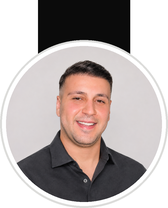
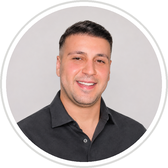
Signature: drop the black tab above the photo

diff --git a/esignature/photo.html b/esignature/photo.html
@@ -32,8 +32,8 @@ h1 { margin: 0 0 6px; font: 400 30px Gambarino, Georgia, serif; }
 <!-- Email-safe: tables, inline styles, absolute PNG URLs. No SVG, no web fonts, no negative margins. -->
 <table role="presentation" cellpadding="0" cellspacing="0" border="0" width="460" bgcolor="#ffffff" style="border-collapse:collapse;width:460px;background-color:#ffffff;font-family:Arial,Helvetica,sans-serif;color:#0b0b0b;">
   <tr>
-    <td width="84" valign="top" align="center" style="width:84px;padding:0 0 10px;">
-      <img src="https://www.levxascensores.es/esignature/assets/levier-photo.png" width="84" height="104" alt="Levier Oraha" style="display:block;width:84px;height:104px;border:0;">
+    <td width="84" valign="top" align="center" style="width:84px;padding:14px 0 10px;">
+      <img src="https://www.levxascensores.es/esignature/assets/levier-photo.png" width="84" height="84" alt="Levier Oraha" style="display:block;width:84px;height:84px;border:0;">
       <div style="margin-top:7px;font:700 10px/1 Arial,Helvetica,sans-serif;letter-spacing:2px;color:#0b0b0b;">LEVX</div>
       <div style="margin-top:3px;font:400 6px/1 Arial,Helvetica,sans-serif;letter-spacing:2px;color:#5d5d5d;">ASCENSORES</div>
     </td>
@@ -78,8 +78,8 @@ h1 { margin: 0 0 6px; font: 400 30px Gambarino, Georgia, serif; }
 <!-- Email-safe: tables, inline styles, absolute PNG URLs. No SVG, no web fonts, no negative margins. -->
 <table role="presentation" cellpadding="0" cellspacing="0" border="0" width="460" bgcolor="#ffffff" style="border-collapse:collapse;width:460px;background-color:#ffffff;font-family:Arial,Helvetica,sans-serif;color:#0b0b0b;">
   <tr>
-    <td width="84" valign="top" align="center" style="width:84px;padding:0 0 10px;">
-      <img src="https://www.levxascensores.es/esignature/assets/levier-photo-color.png" width="84" height="104" alt="Levier Oraha" style="display:block;width:84px;height:104px;border:0;">
+    <td width="84" valign="top" align="center" style="width:84px;padding:14px 0 10px;">
+      <img src="https://www.levxascensores.es/esignature/assets/levier-photo-color.png" width="84" height="84" alt="Levier Oraha" style="display:block;width:84px;height:84px;border:0;">
       <div style="margin-top:7px;font:700 10px/1 Arial,Helvetica,sans-serif;letter-spacing:2px;color:#0b0b0b;">LEVX</div>
       <div style="margin-top:3px;font:400 6px/1 Arial,Helvetica,sans-serif;letter-spacing:2px;color:#5d5d5d;">ASCENSORES</div>
     </td>
@@ -117,7 +117,7 @@ h1 { margin: 0 0 6px; font: 400 30px Gambarino, Georgia, serif; }
   <tr><td colspan="7" height="6" bgcolor="#0b0b0b" style="height:6px;background-color:#0b0b0b;border-top:2px solid #d1500f;font-size:0;line-height:0;">&nbsp;</td></tr>
 </table>
   </div></div>
-  <p class="note">The portrait and icons load from levxascensores.es, so the signature works once this page is live. The black tab is part of the photo, so every email app keeps it attached.</p>
+  <p class="note">The portrait and icons load from levxascensores.es, so the signature works once this page is live.</p>
 </main>
 <script>
 document.querySelectorAll('[data-sig]').forEach(b => b.addEventListener('click', async () => {

diff --git a/esignature/build-photo.py b/esignature/build-photo.py
@@ -11,7 +11,7 @@ INK = (11, 11, 11)
 S = 4  # supersample, then shrink for smooth edges
 
 
-def portrait(src, color=False, name="levier-photo.png", d=84, tab=(46, 40), ring=3):
+def portrait(src, color=False, name="levier-photo.png", d=84, tab=None, ring=3):
     """Round portrait with the black tab baked in, so no email app can pull them apart.
     Saved at 2x: display size is d wide, d + tab overlap tall."""
     k = 2 * S
@@ -21,12 +21,13 @@ def portrait(src, color=False, name="levier-photo.png", d=84, tab=(46, 40), ring
     w, h = im.size
     side = min(w, h)
     im = im.crop(((w - side) // 2, 0, (w + side) // 2, side))
-    top = tab[1] // 2                      # circle starts halfway down the tab
+    top = tab[1] // 2 if tab else 0        # circle starts halfway down the tab, if there is one
     W, H = d * k, (d + top) * k
     canvas = Image.new("RGB", (W, H), BG)
     dr = ImageDraw.Draw(canvas)
-    tx = (W - tab[0] * k) // 2
-    dr.rectangle((tx, 0, tx + tab[0] * k, tab[1] * k), fill=INK)
+    if tab:
+        tx = (W - tab[0] * k) // 2
+        dr.rectangle((tx, 0, tx + tab[0] * k, tab[1] * k), fill=INK)
     dr.ellipse((0, top * k, W - 1, H - 1), fill=(255, 255, 255))
     inner = W - 2 * ring * k
     im = im.resize((inner, inner), Image.LANCZOS)
